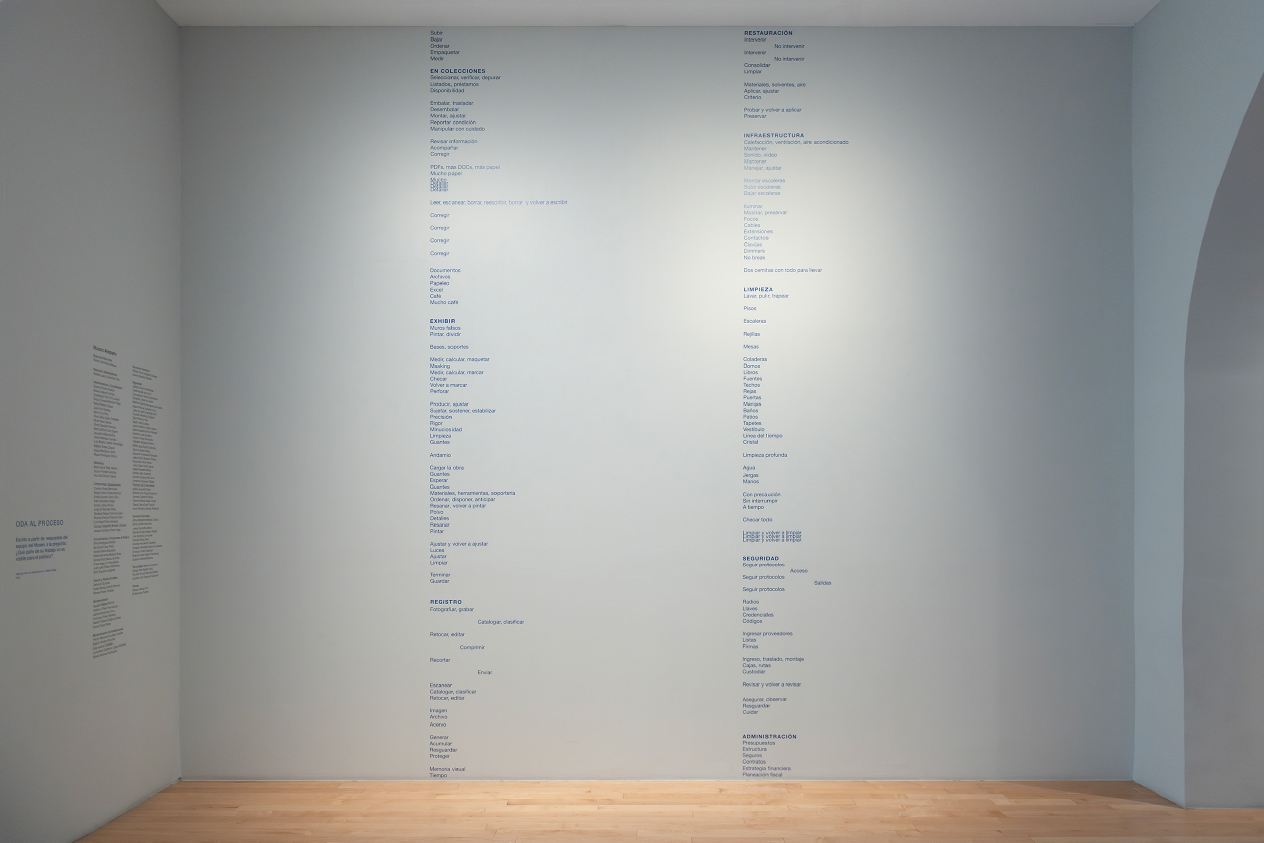
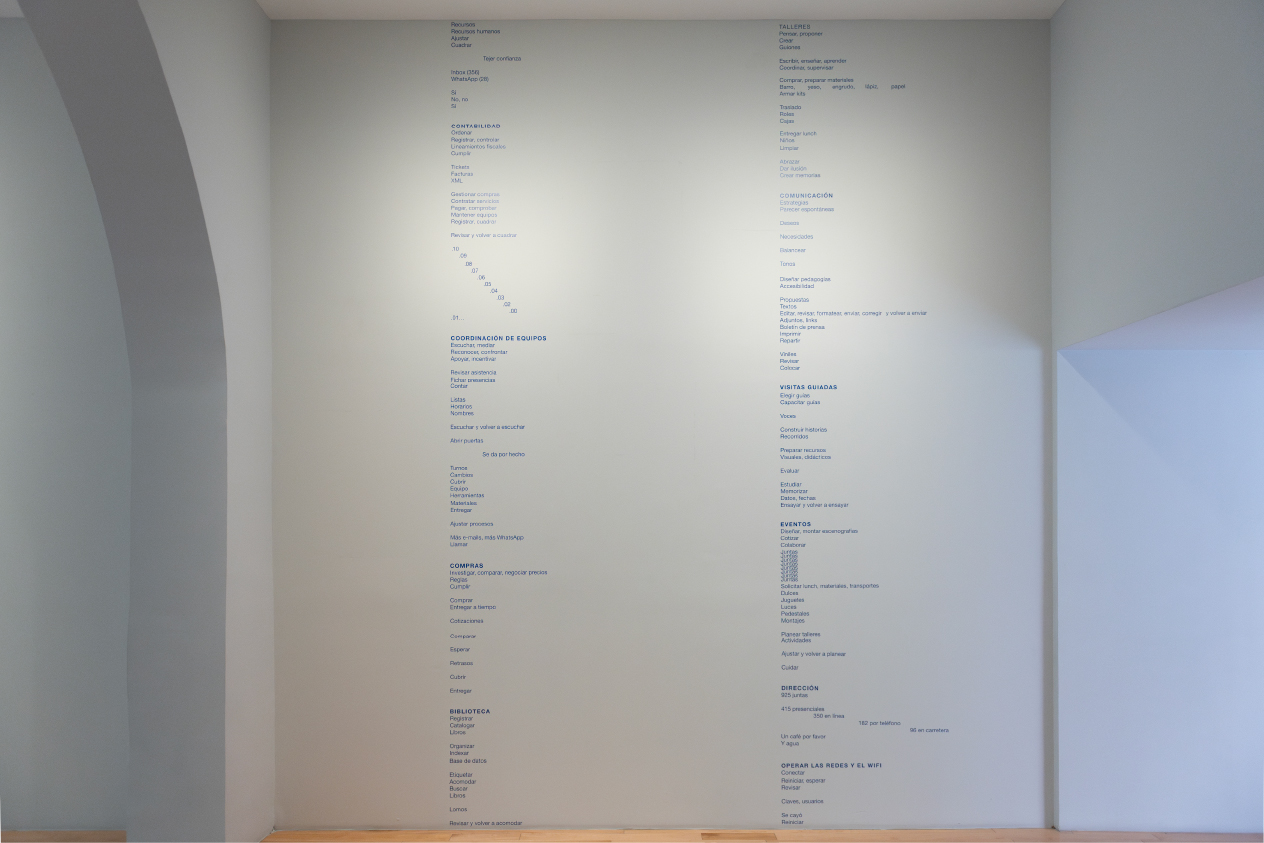
about

diff --git a/_pages/about.html b/_pages/about.html
@@ -29,13 +29,12 @@ Lorem ipsum dolor set amet. Blar diene dlsdfjsld rrrrr ssss dfsdfsdf hfhfh sdfee
 
 <div class = "infotext">
 <p> 
-I work with textiles and images, reflecting on interdependence and ways of seeing. <br>
+I am an artist working with textiles, images and archives.<br>
 <br>
-Woven cloth can be seen as analogous to social connections. Threads collaborate to form a flexible surface that offers shelter and a sense of belonging, no matter how different they are from one another. My work reflect on these tender, collective forces.<br>
+I have made exhibitions drawing on institutional collections, attending to what is least visible, such as never-shown images or the people who care for a collection. My work with unravelled fabric reflects on vulnerability and my latest artist book is concerned with loss in algorithmic ways of seeing. Across these works, I am interested in the relationships that hold images, threads and people together.<br>
 <br>
-An image’s meaning is unstable, depending on context, much like the threads in a weave rely on each other. My images are fragmented, floating on fabric or arranged in close proximity. They don’t appear as singular entities, but are enmeshed with their surroundings.<br>
+I work slowly, sifting through vast image collections or pulling threads one by one from a piece of cloth. Undoing is central to my practice, be that the pattern of a weave or the organisation of a collection. I undo in order to examine an underlying structure, to loosen it or to reconfigure it. <br>
 <br>
-I work slowly, sifting through vast image collections or pulling threads one by one from a piece of cloth. Undoing is central to my practice, be that the pattern of a weave or the organisation of an archive. I undo in order to resist an underlying structure. <br>
 </p>
 </div>
 

diff --git a/_site/about/index.html b/_site/about/index.html
@@ -51,13 +51,12 @@ Lorem ipsum dolor set amet. Blar diene dlsdfjsld rrrrr ssss dfsdfsdf hfhfh sdfee
 
 <div class = "infotext">
 <p> 
-I work with textiles and images, reflecting on interdependence and ways of seeing. <br>
+I am an artist working with textiles, images and archives.<br>
 <br>
-Woven cloth can be seen as analogous to social connections. Threads collaborate to form a flexible surface that offers shelter and a sense of belonging, no matter how different they are from one another. My work reflect on these tender, collective forces.<br>
+I have made exhibitions drawing on institutional collections, attending to what is least visible, such as never-shown images or the people who care for a collection. My work with unravelled fabric reflects on vulnerability and my latest artist book is concerned with loss in algorithmic ways of seeing. Across these works, I am interested in the relationships that hold images, threads and people together.<br>
 <br>
-An image’s meaning is unstable, depending on context, much like the threads in a weave rely on each other. My images are fragmented, floating on fabric or arranged in close proximity. They don’t appear as singular entities, but are enmeshed with their surroundings.<br>
+I work slowly, sifting through vast image collections or pulling threads one by one from a piece of cloth. Undoing is central to my practice, be that the pattern of a weave or the organisation of a collection. I undo in order to examine an underlying structure, to loosen it or to reconfigure it. <br>
 <br>
-I work slowly, sifting through vast image collections or pulling threads one by one from a piece of cloth. Undoing is central to my practice, be that the pattern of a weave or the organisation of an archive. I undo in order to resist an underlying structure. <br>
 </p>
 </div>
 
